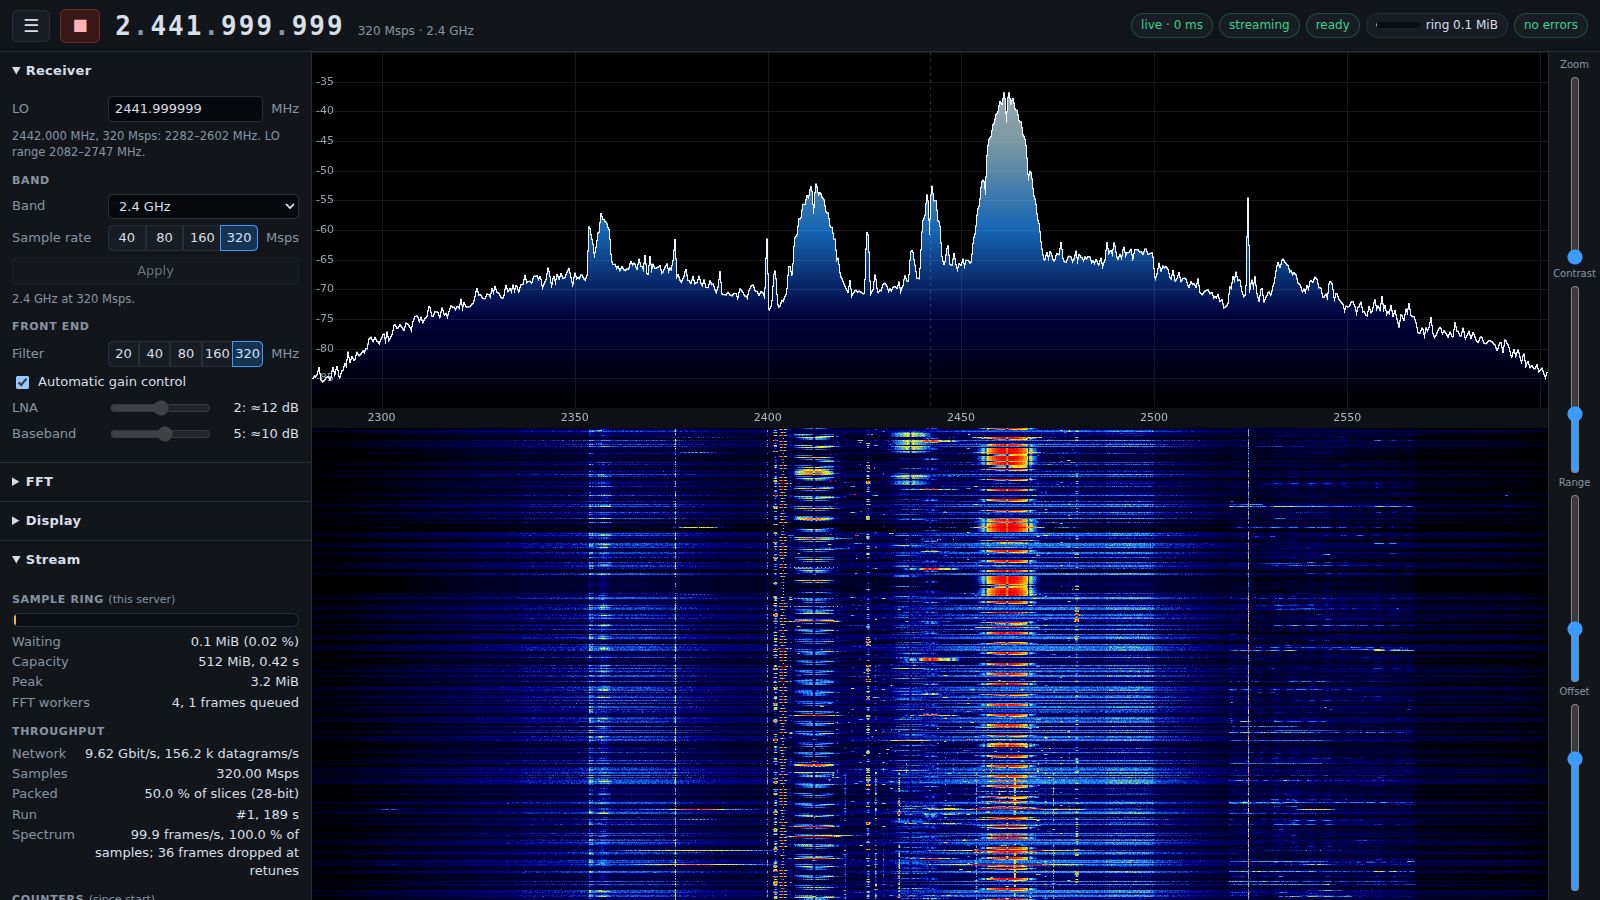
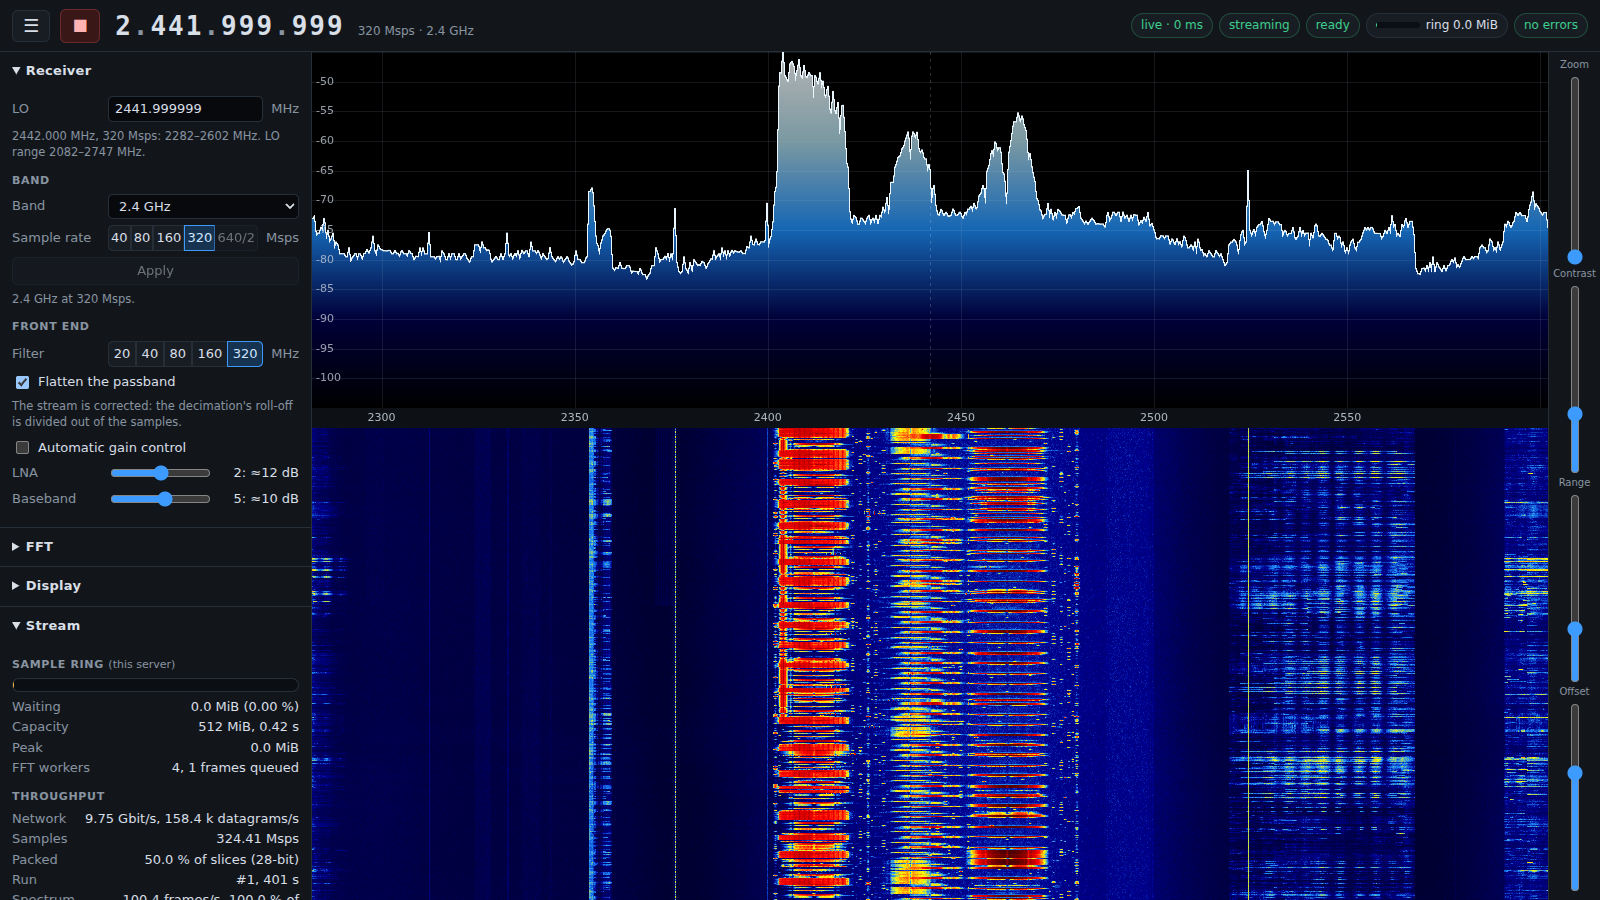
docs/images: the live recording and the web UI screenshots again, flattened and at fixed gain

diff --git a/README.md b/README.md
@@ -8,8 +8,9 @@ to it.
 
 ![The 2.4 GHz band live: spectrum and waterfall](docs/images/live-2g4.gif)
 
-*The whole 2.4 GHz band at 320 Msps, live: a 262,144-point FFT of every
-sample, 100 spectra a second (this recording runs at 50 frames a second).*
+*The whole 2.4 GHz band at 320 Msps, live, with the decimation's roll-off
+corrected in the stream ("flatten"): a 262,144-point FFT of every sample, 100
+spectra a second (this recording runs at 50 frames a second).*
 
 The MT7996 runs only our own firmware: a ROM patch, WM and WA built from this
 repository, with no MediaTek code. It brings the radio up from a cold power-on
@@ -33,17 +34,18 @@ register against a trace of MediaTek's own firmware, and takes its commands
 
 ![The web UI at 2.4 GHz](docs/images/ui-2g4.png)
 
-*2.4 GHz at 320 Msps: Wi-Fi frames and shorter hopping bursts. The Stream panel
-shows the link carrying 9.62 Gbit/s, half of the slices packed, and every
-sample transformed.*
+*2.4 GHz at 320 Msps, flattened: Wi-Fi frames and shorter hopping bursts on a
+floor that stays level to the band's edges. The Stream panel shows the link
+carrying 9.75 Gbit/s, half of the slices packed, and every sample transformed.*
 
 ![The web UI at 5 GHz](docs/images/ui-5g.png)
 
-*An 80 MHz Wi-Fi channel at 5170–5250 MHz in a 320 MHz view.*
+*Two busy 80 MHz Wi-Fi channels at 5170–5330 MHz in a flattened 320 MHz view.*
 
-![The same channel zoomed to 24 MHz](docs/images/ui-zoom.png)
+![The two channels' edges zoomed to 24 MHz](docs/images/ui-zoom.png)
 
-*The same channel's upper edge zoomed to 24 MHz, in 1.22 kHz bins.*
+*Zoomed to 24 MHz around 5250 MHz: the two channels' edges and the guard gap
+between them, in 1.22 kHz bins.*
 
 ## Repository
 
